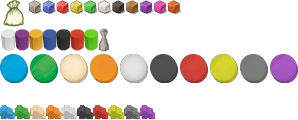
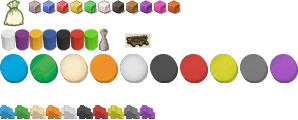
implemented showing priority deal marker in UI

Changed region(s): [[0.3926, 0.275, 0.5134, 0.4]]

diff --git a/cityofthebigshoulders.js b/cityofthebigshoulders.js
@@ -170,6 +170,11 @@ function (dojo, declare) {
 
             this.placeRoundAndPhaseMarkers(gamedatas);
 
+            // set priority marker
+            var priority_deal_player_id = gamedatas.priority_deal_player_id;
+            if(priority_deal_player_id != "0")
+                dojo.query("#priority_" + priority_deal_player_id).addClass("priority-marker");
+
             console.log( "Ending game setup" );
         },
        
@@ -3882,6 +3887,15 @@ function (dojo, declare) {
             dojo.subscribe('newRound', this, "notif_newRound");
 
             dojo.subscribe('newPhase', this, "notif_newPhase");
+
+            dojo.subscribe('dealMarkerReceived', this, "notif_dealMarkerReceived");
+        },
+
+        notif_dealMarkerReceived: function(notif){
+            var playerId = notif.args.player_id;
+
+            dojo.query(".priority-holder>").removeClass("priority-marker");
+            dojo.query("#priority_" + playerId).addClass("priority-marker");
         },
 
         notif_marketSquareReset: function(notif){

diff --git a/cityofthebigshoulders.css b/cityofthebigshoulders.css
@@ -68,13 +68,15 @@
     clear: both;
  }
 
- .board_item {
-	/* width: 50px; */
-	height: auto;
-	display: inline-block;
-	margin-bottom: 2px;
-	white-space: nowrap;
-	position: relative;
+.board_item {
+    display: inline;
+    margin: 2px;
+}
+
+.company_item {
+    display: inline-block;
+    margin: 2px;
+    position: absolute;
 }
 
 #share_track{
@@ -108,6 +110,7 @@
     background-image: url( 'img/tokens.png' );
     display: inline-block;
     vertical-align: middle;
+    margin: 1px;
 }
 
 .moveable-token {
@@ -119,6 +122,14 @@
     background-position: 0px 0px; 
     width: 28px;
     height: 28px;
+}
+
+.priority-marker {
+    background-image: url( 'img/tokens.png' );
+    position: relative;
+    background-position: -125px -33px; 
+    width: 28px;
+    height: 18px;
 }
 
 .meeple { 

diff --git a/cityofthebigshoulders.game.php b/cityofthebigshoulders.game.php
@@ -175,6 +175,7 @@ class CityOfTheBigShoulders extends Table
         $result['goals'] = $this->goal;
         $result['round'] = self::getGameStateValue('round');
         $result['phase'] = self::getGameStateValue('phase');
+        $result['priority_deal_player_id'] = self::getGameStateValue('priority_deal_player_id');
 
         // gather all items in card table that are visible to the player
         $sql = "SELECT card_id AS card_id, owner_type AS owner_type, primary_type AS primary_type, card_type AS card_type, card_type_arg AS card_type_arg, card_location AS card_location, card_location_arg AS card_location_arg
@@ -4787,7 +4788,8 @@ class CityOfTheBigShoulders extends Table
             self::setGameStateValue('priority_deal_player_id', $next_player_id);
             $player_info = self::loadPlayersBasicInfos()[$next_player_id];
             self::notifyAllPlayers( "dealMarkerReceived", clienttranslate( '${player_name} receives the priority deal marker' ), array(
-                'player_name' => $player_info['player_name']
+                'player_name' => $player_info['player_name'],
+                'player_id' => $next_player_id
             ));
 
             // deal buildings
